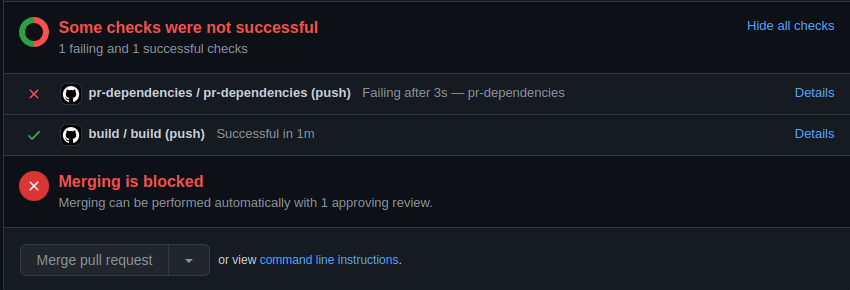
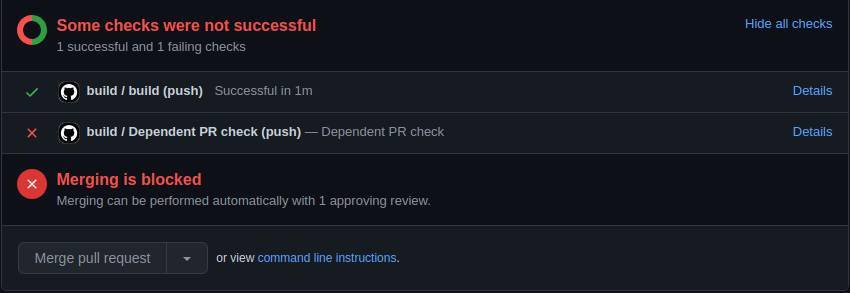
Update documentation

diff --git a/README.md b/README.md
@@ -1,10 +1,34 @@
 # Dependent PR action
 
-Checks if the current PR depends on another PR and fails if dependent PR has yet to be merged
+Checks if specified dependent PR has yet to be merged and fails Github check if it has thus preventing the current PR from being merged before dependent PR.
 
 ## Usage
 
-In depending PR add a workflow similar to the following:
+In the current PR Github workflow add a step in the following format:
+
+```yml
+    - name: Check dependent PR 7
+      uses: EduardSergeev/dependent-pr-action@v2
+      env:
+        GITHUB_TOKEN: ${{ secrets.GITHUB_TOKEN }}
+      with:
+        dependent-pr: 7
+```
+
+This workflow will fail if `PR #7` has yet to be merged thus preveting the depending PR from being merged due to:
+
+![Failed check](img/failed.png)
+
+Clicking on `Details` provides additional nformation:
+
+![Details](img/details.png)
+
+## Parameters
+
+- `dependent-pr`: (required) number of the PR which the current PR depends on
+- `GITHUB_TOKEN`: (required for private repo) Can be omitted for public repo which does not require Github API authentication
+
+## Example of entire workflow
 
 ```yml
 name: pr-dependencies
@@ -17,14 +41,9 @@ jobs:
     runs-on: ubuntu-latest
     steps:
     - name: Check dependent PR №42
-      uses: EduardSergeev/dependent-pr-action@v1
+      uses: EduardSergeev/dependent-pr-action@v2
       env:
         GITHUB_TOKEN: ${{ secrets.GITHUB_TOKEN }}
       with:
         dependent-pr: 42
-
 ```
-
-This workflow will fail if `PR #42` has yet to be merged thus preveting the depending PR from being merged due to:
-
-![Failed check](img/failed.png)
